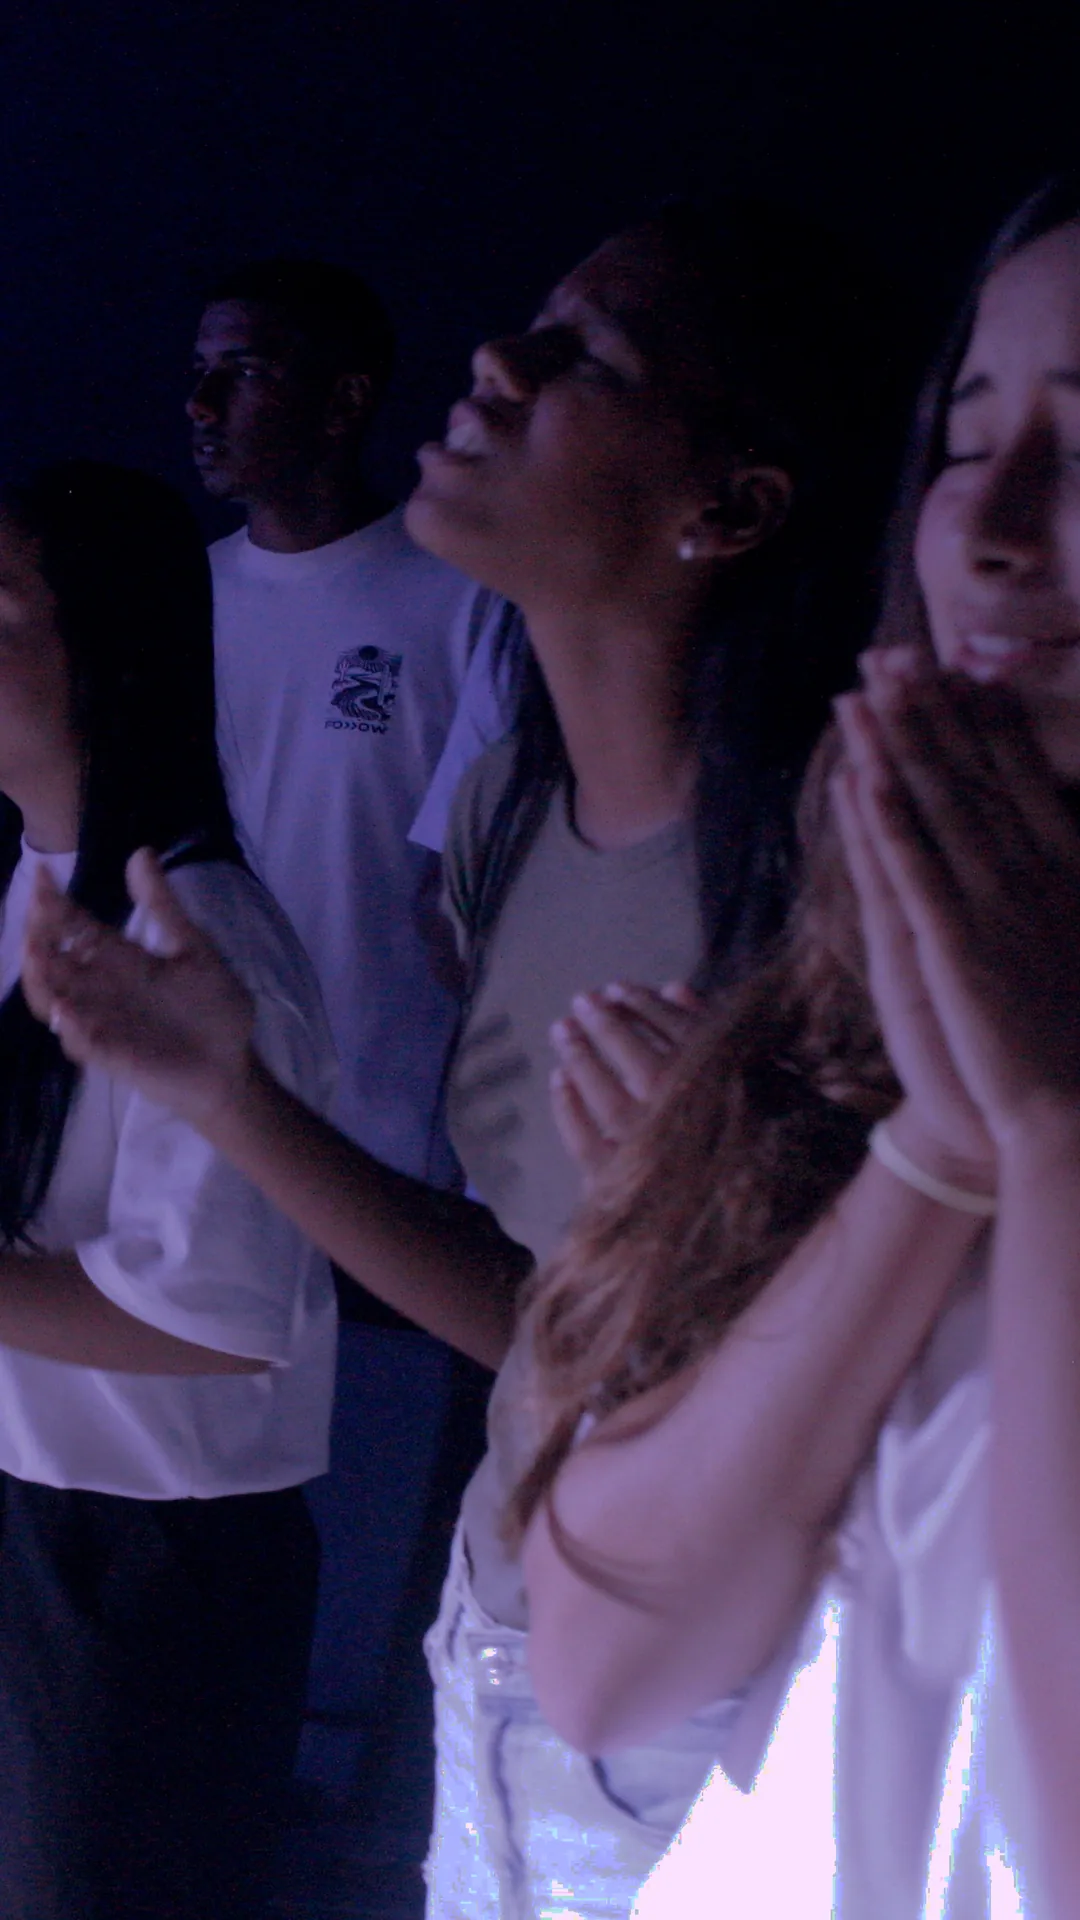
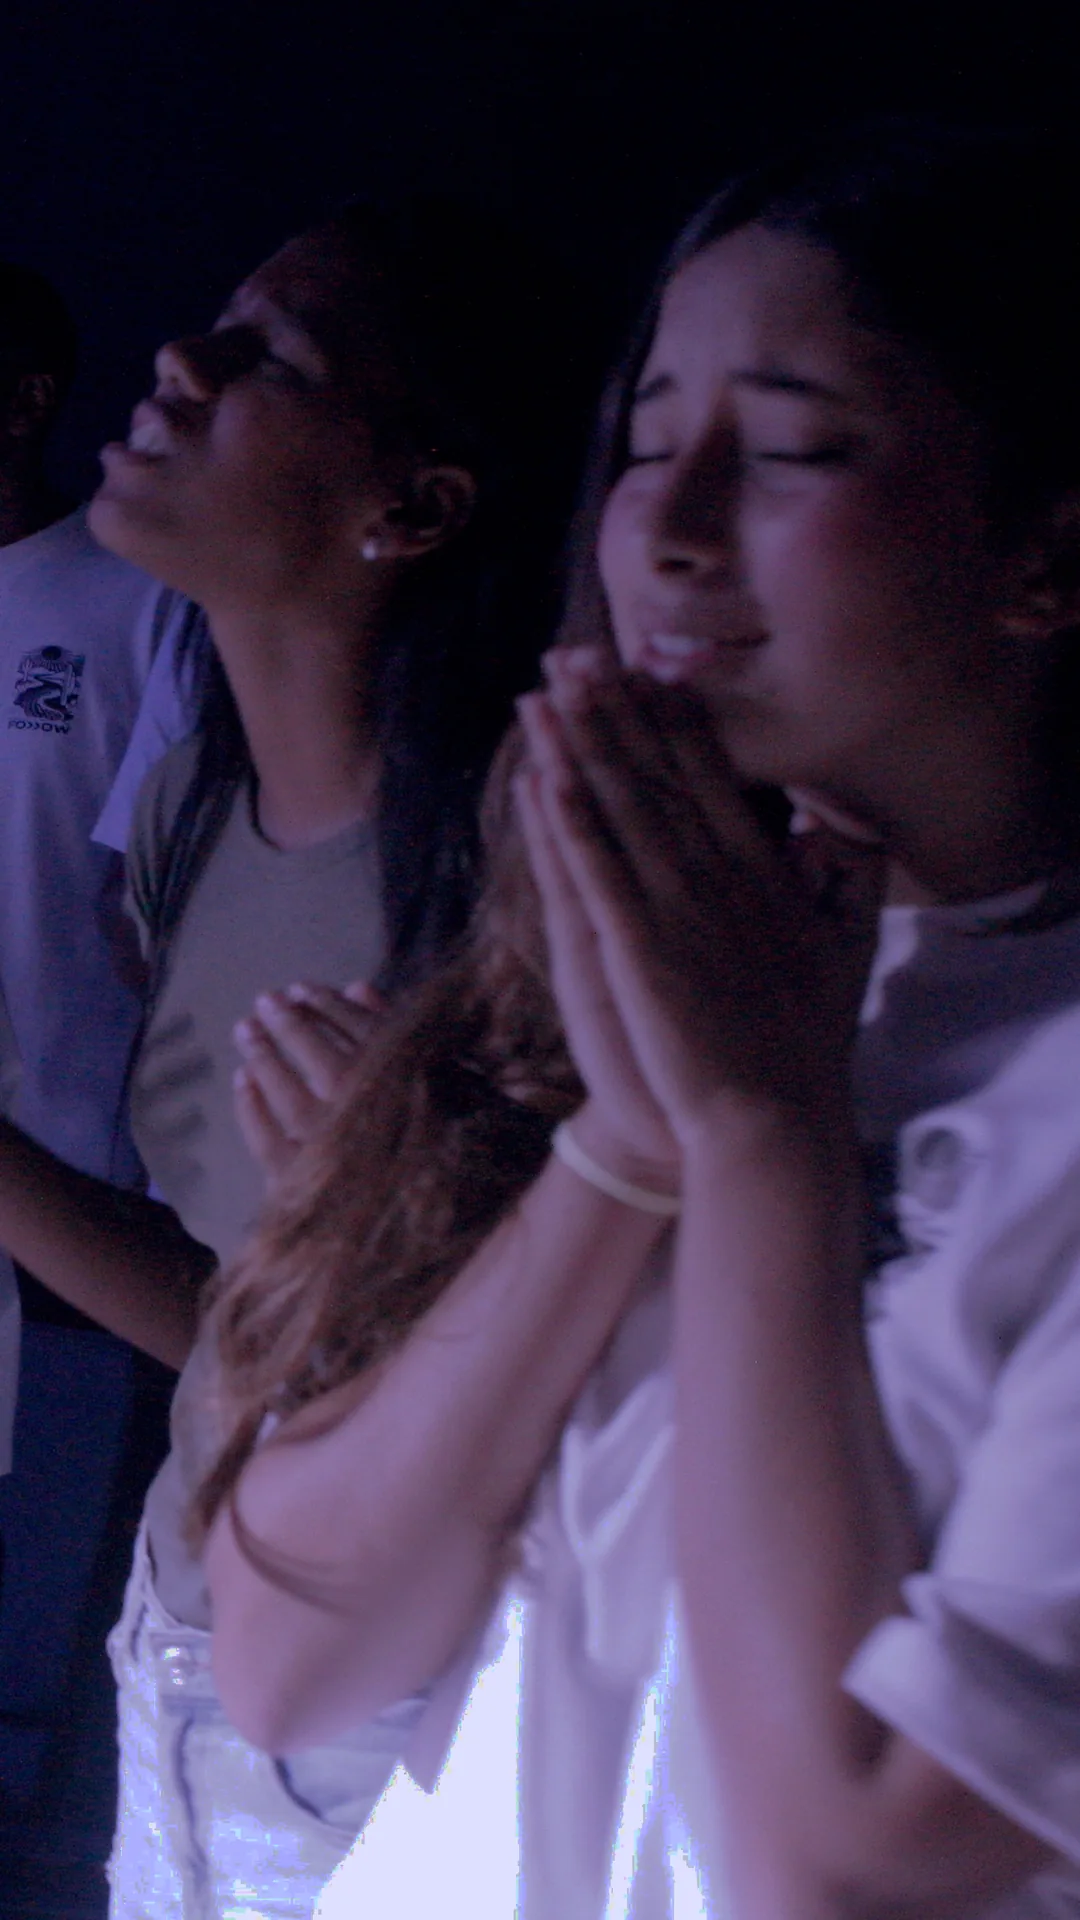
Sites: a barra e a cortina como marcos de navegação; os cortes em pé do Follow
A auditoria de estrutura passou a cobrar os marcos (cabeçalho, navegação
com nome, conteúdo, rodapé) e achou nas 17 páginas a barra como uma lista
solta: os únicos <nav> eram os grupos do pé, e quem pula de marco em marco
com o leitor de tela não achava o menu principal. Agora a lista da barra
fica dentro de <nav aria-label="Seções do site"> (que some junto com ela
abaixo de 1000 px) e a cortina do celular é <nav aria-label="Menu">.

As fotos em pé do herói do Follow: no celular a tela mostra 80 a 95% da
largura do corte 9:16 (as bordas saem) e no iPad em pé e no iPhone SE, o
corte inteiro. Três fotos deixavam um rosto em meia fatia na borda. Do
mesmo original do fotógrafo (sem IA), com o foco novo em
scripts/follow-fotos.py: f1 0,50 → 0,56 (sai o rosto da moça de coque) e
f3 0,70 → 0,81 (o rosto da moça que ora, de mãos juntas, que quase sumia
no celular, entra inteiro). A f2 mantém o corte e encosta à direita no
celular (Foto.xp → --fx, o object-position da foto em pé), e os dois que
riem ficam com o rosto inteiro. Os cortes deitados não mudam.

Verificado na prévia e no build com a suíte (358 PASS), uma auditoria por
vez com saúde 2/2 e o build servido conferido: estrutura com os marcos em
17 de 17; teclado 25/25; impressão digital contra o 21r só com o <nav>
novo (e a contagem, que é relógio); as fotos do herói em cinco formatos
(25 de 25 com a foto certa por cima); contraste nos pixels sem nada abaixo
[…]

diff --git a/components/site/Topo.tsx b/components/site/Topo.tsx
@@ -199,7 +199,10 @@ export default function Topo({ site = 'igreja' }: { site?: QualSite }) {
             {site === 'follow' ? <LogoFollow className="s-marca-follow" /> : <Simbolo />}
           </Link>
 
-          <ul className="s-nav" aria-label="Seções do site">
+          {/* 22/10/2026: a barra é um marco de navegação (<nav>), e não só uma
+              lista: quem usa leitor de tela pula para ela pelos marcos */}
+          <nav className="s-nav-casca" aria-label="Seções do site">
+          <ul className="s-nav">
             {MENU.map((g, i) => {
               /* 20/10/2026: o painel abria com "<grupo> · Abrir a página" e, logo abaixo, o
                  primeiro item indo para a MESMA página (Igreja → /sobre e Quem somos → /sobre,
@@ -242,6 +245,7 @@ export default function Topo({ site = 'igreja' }: { site?: QualSite }) {
               );
             })}
           </ul>
+          </nav>
 
           <div className="s-topo-fim">
             <button ref={lupaBt} type="button" className="s-ico-bt" aria-label="Buscar no site" onClick={() => { setMenu(false); setBusca(true); }}><Lupa /></button>
@@ -255,7 +259,7 @@ export default function Topo({ site = 'igreja' }: { site?: QualSite }) {
           MENU_CELULAR), a página aberta sublinhada em laranja, e embaixo as
           três saídas que não são página: WhatsApp, Instagram e o espaço de
           quem já serve */}
-      <div id="s-cortina" className={'s-cortina' + (menu ? ' aberta' : '')} inert={!menu} aria-label="Menu">
+      <nav id="s-cortina" className={'s-cortina' + (menu ? ' aberta' : '')} inert={!menu} aria-label="Menu">
         <ul className="s-cortina-lista">
           {MENU_CELULAR.map(it => {
             const aqui = !it.href.includes('#') && (caminho === it.href || caminho.startsWith(it.href + '/'));
@@ -273,7 +277,7 @@ export default function Topo({ site = 'igreja' }: { site?: QualSite }) {
           <a href={IGREJA.instagram} target="_blank" rel="noreferrer">Instagram</a>
           <a href={jaSirvo} onClick={() => setMenu(false)}>Já sirvo</a>
         </div>
-      </div>
+      </nav>
 
       {/* a busca */}
       <div className={'s-busca' + (busca ? ' aberta' : '')} inert={!busca} role="dialog" aria-label="Buscar no site" aria-modal="true">

diff --git a/app/site.css b/app/site.css
@@ -233,6 +233,8 @@ html:has(> body > .s){ -webkit-text-size-adjust:100%; text-size-adjust:100% }
 .s .s-logo svg{ height:36px; width:auto }
 /* a marca do Follow na barra é o logotipo deitado (FO»OW), na altura de uma linha de texto da barra */
 .s .s-logo .s-marca-follow{ height:22px }
+/* o marco de navegação em volta da lista (22/10/2026): ocupa o lugar que a lista ocupava */
+.s .s-nav-casca{ display:flex; align-items:center; flex:1; min-width:0 }
 .s .s-nav{ display:flex; align-items:center; gap:clamp(4px,1.4vw,22px); flex:1 }
 .s .s-nav > li{ position:relative }
 .s .s-nav-bt{ display:inline-flex; align-items:center; gap:7px; height:44px; padding:0 10px; font-weight:600; font-size:clamp(16px,1.35vw,19px); letter-spacing:-.02em; border-radius:var(--s-r-3); transition:background var(--s-t) }
@@ -486,6 +488,9 @@ html:has(> body > .s){ -webkit-text-size-adjust:100%; text-size-adjust:100% }
 .s .s-scrub-foto:not([src]){ visibility:hidden }
 .s .s-scrub-foto{ position:absolute; inset:0; width:100%; height:100%; object-fit:cover; object-position:center; display:block; user-select:none; -webkit-user-drag:none;
   opacity:var(--o,1); transform:scale(var(--s,1)) translateZ(0); transform-origin:50% 50%; will-change:opacity,transform; backface-visibility:hidden }
+/* 22/10/2026: em pé, a foto encosta onde a página manda (Foto.xp → --fx); só
+   faz diferença quando a tela é mais comprida que o corte 9:16 */
+@media (orientation:portrait){ .s .s-scrub-foto{ object-position:var(--fx,50%) 50% } }
 .s.js .s-scrub:not(.estatico) .s-scrub-foto{
   --t:clamp(0,(var(--p,0) - var(--a)) / (var(--b) - var(--a)),1);
   --u:clamp(0,(var(--p,0) - var(--za)) / (var(--z) - var(--za)),1);
@@ -1395,7 +1400,7 @@ html{ scroll-padding-top:calc(72px + 12px + env(safe-area-inset-top, 0px)) }
 }
 @media(max-width:999px){
   .s{ --s-barra:64px }
-  .s .s-nav{ display:none }
+  .s .s-nav, .s .s-nav-casca{ display:none }
   .s .s-menu-bt{ display:block; width:44px; height:44px; padding:0 11px }
   .s .s-form{ grid-template-columns:1fr 1fr }
   .s .s-form .s-enviar{ grid-column:1 / -1; width:100% }

diff --git a/components/site/Scrub.tsx b/components/site/Scrub.tsx
@@ -45,8 +45,12 @@ export type Faixa = { texto: string; it?: string; a: number; b: number; sobe?: b
  *  Arthur para a home: sem rolar, quem é a GUIA, onde fica, a hora do culto e o
  *  convite com como chegar e as dúvidas. */
 export type Pouso = { titulo: string; it?: string; sub?: ReactNode; a: number; primeiro?: boolean; b?: number };
-/** uma foto da pilha: os dois cortes e a janela em que entra (a → b) */
-export type Foto = { l: string; p: string; a: number; b: number; alt: string };
+/** uma foto da pilha: os dois cortes e a janela em que entra (a → b).
+ *  `xp` (22/10/2026): de 0 a 100, onde o corte em pé encosta quando a tela é
+ *  mais comprida que ele (o celular de 390x844 mostra uns 82% da largura do
+ *  9:16; o iPad em pé e o iPhone SE mostram tudo). Sem ele, o centro. Serve
+ *  para tirar da borda um rosto que ficaria em meia fatia. */
+export type Foto = { l: string; p: string; a: number; b: number; alt: string; xp?: number };
 
 const REDUZ = '(prefers-reduced-motion: reduce)';
 const SUAVIZACAO = 0.16;           /* por quadro de 60 fps; a sensação do scrub */
@@ -314,6 +318,7 @@ export default function Scrub({ fotos, faixas, pouso, chapeu, micro, rotulo, alt
             const vars = {
               '--a': i === 0 ? -2 : f.a, '--b': i === 0 ? -1 : f.b,
               '--za': i === 0 ? 0 : f.a, '--z': prox ? prox.b : 1,
+              ...(f.xp != null ? { '--fx': `${f.xp}%` } : {}),
             } as React.CSSProperties;
             /* 21/10/2026: com o pouso abrindo o herói, só a primeira foto é da primeira
                tela; as outras chegam depois dela (o JS solta o src quando ela termina).

diff --git a/app/(follow)/follow/page.tsx b/app/(follow)/follow/page.tsx
@@ -61,7 +61,9 @@ const CAMP = naIgreja('/followcamp');
 const FOTOS: Foto[] = [
   { l: '/follow/f5-l.webp', p: '/follow/f5-p.webp', a: 0, b: 0, alt: 'A sala do Follow cheia, todo mundo de pé' },
   { l: '/follow/f1-l.webp', p: '/follow/f1-p.webp', a: 0.26, b: 0.32, alt: 'Jovens conversando nos sofás antes do Follow' },
-  { l: '/follow/f2-l.webp', p: '/follow/f2-p.webp', a: 0.44, b: 0.5, alt: 'Três jovens rindo na entrada do Follow' },
+  /* 22/10/2026: no celular a foto em pé encosta à direita (xp 100): no centro, o rosto
+     do rapaz da direita virava meia fatia na borda; assim os dois que riem ficam inteiros */
+  { l: '/follow/f2-l.webp', p: '/follow/f2-p.webp', a: 0.44, b: 0.5, alt: 'Três jovens rindo na entrada do Follow', xp: 100 },
   { l: '/follow/f3-l.webp', p: '/follow/f3-p.webp', a: 0.62, b: 0.68, alt: 'Jovens em adoração, de mãos levantadas' },
   { l: '/follow/f4-l.webp', p: '/follow/f4-p.webp', a: 0.8, b: 0.86, alt: 'Ministro de louvor de braços abertos diante do telão' },
 ];

diff --git a/scripts/follow-fotos.py b/scripts/follow-fotos.py
@@ -21,6 +21,19 @@ Ordem e papel de cada foto no scroll (ver components/site/Scrub.tsx e a página)
   f3  _MG_8167  adoração, mãos levantadas          "Jesus no centro."
   f4  _MG_8156  braços abertos diante do GUI>      "Uma família em volta."
   f5  _MG_8177  a sala inteira                     "Um lugar para todos."
+
+22/10/2026, A REVISÃO DOS CORTES EM PÉ. O corte em pé (9:16) aparece inteiro
+no iPad em pé e no iPhone SE; nos celulares mais compridos (390x844, o Android
+com a barra) a tela mostra só 80 a 95% da largura dele, e o que sobra sai das
+bordas (object-fit: cover). Três fotos deixavam um rosto partido na borda:
+  f1: o foco x 0,50 → 0,56 (sai o rosto da moça de coque, cortado ao meio;
+      ficam a moça de verde e as mãos da conversa);
+  f3: 0,70 → 0,81 (o rosto da moça que ora, de mãos juntas, entra inteiro;
+      era o mais forte da foto e estava partido na borda direita);
+  f2: o corte fica (0,60: no iPad o rapaz da direita aparece quase inteiro);
+      no celular a foto encosta na borda direita (xp 100 na página), e o
+      rosto dele não vira meia fatia.
+Os cortes deitados não mudam (usam o y). SAIDA=<pasta> grava em outra pasta.
 """
 import os, sys, glob
 import numpy as np
@@ -28,14 +41,14 @@ from PIL import Image, ImageOps
 from skimage.exposure import match_histograms
 
 BASE = sys.argv[1] if len(sys.argv) > 1 else '.'
-OUT = os.path.join(os.path.dirname(os.path.abspath(__file__)), '..', 'public', 'follow')
+OUT = os.environ.get('SAIDA') or os.path.join(os.path.dirname(os.path.abspath(__file__)), '..', 'public', 'follow')
 os.makedirs(OUT, exist_ok=True)
 
 # nome do RAW, nome da editada, foco (x, y) em fração: deitado usa o y, em pé usa o x
 FOTOS = [
-    ('f1', '_MG_7665', '0702-01', (0.50, 0.52)),
+    ('f1', '_MG_7665', '0702-01', (0.56, 0.52)),
     ('f2', '_MG_7669', '0702-03', (0.60, 0.42)),
-    ('f3', '_MG_8167', '2802-10', (0.70, 0.45)),
+    ('f3', '_MG_8167', '2802-10', (0.81, 0.45)),
     ('f4', '_MG_8156', '2802-04', (0.50, 0.42)),
     ('f5', '_MG_8177', '2802-13', (0.55, 0.52)),
 ]
